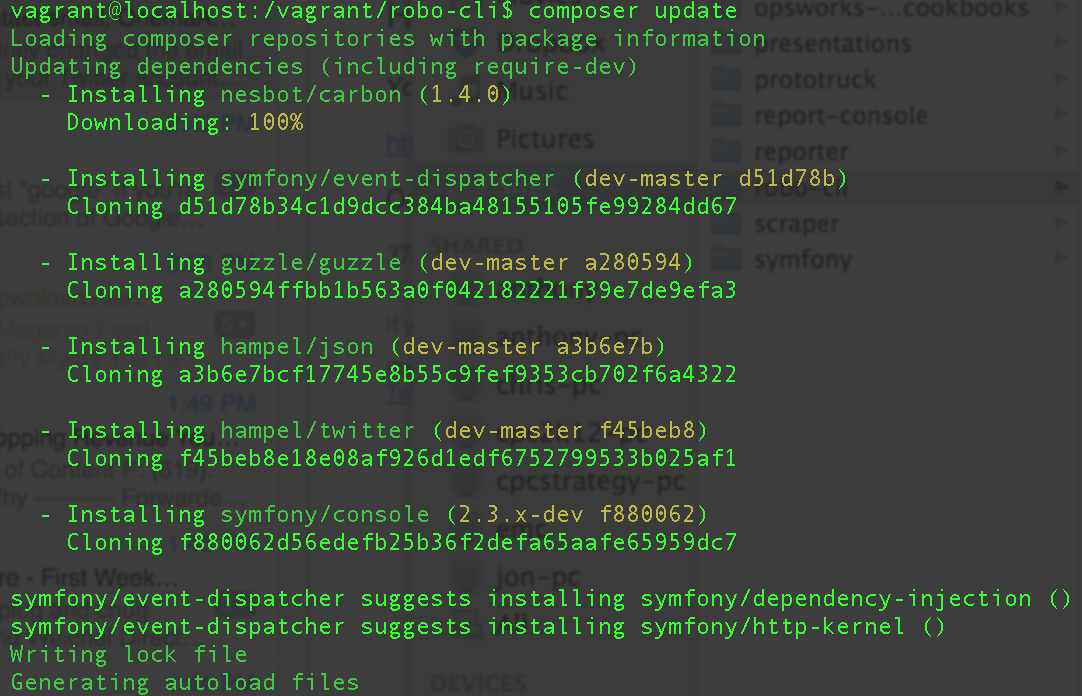
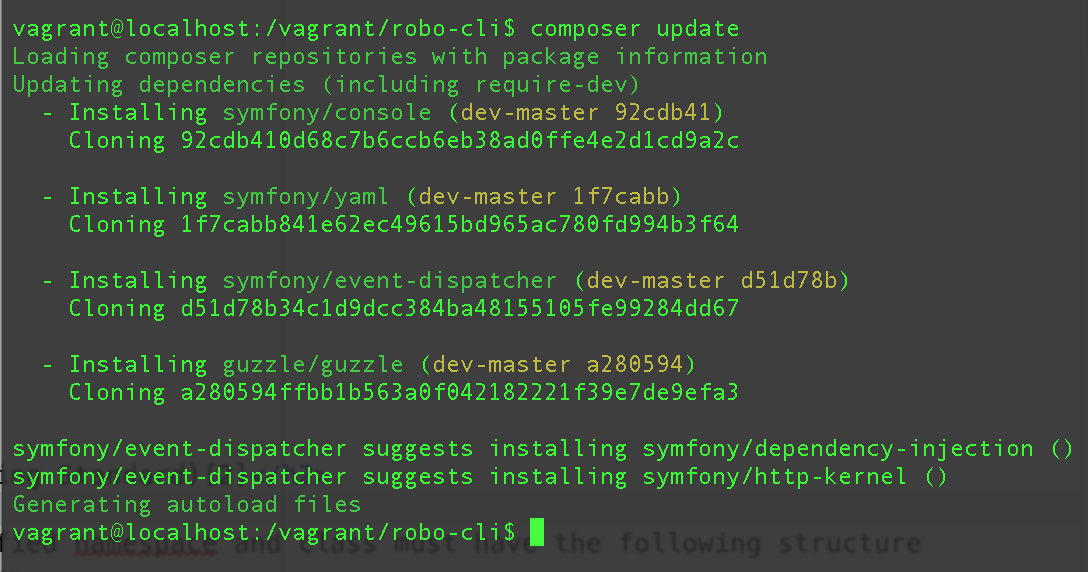
Updated presentation to match code in repository

diff --git a/composer/index.html b/composer/index.html
@@ -81,8 +81,8 @@
 </code></pre>
                 </section>
                 <section>
-                    <h2>Composer Update</h2>
-                    <img src="img/composer-update.png" />
+                    <h2>Composer Install</h2>
+                    <img src="img/composer-install.png" />
                 </section>
                 <section>
                     <section>
@@ -122,14 +122,14 @@ src
 src
   |__Onema                          #Onema
      |__RoboCli                     #Onema\RoboCli
-            |__Command              #Onema\RoboCli
-               |__TwitCommand.php   #Onema\RoboCli\TwitCommand
+            |__Command              #Onema\RoboCli\Command
+               |__TweetCommand.php   #Onema\RoboCli\TweetCommand
 </code></pre>
                     </section>
                 </section>
                 <section>
                     <section>
-                        <h2>Create a new Class TwitCommand</h2>
+                        <h2>Create a new Class TweetCommand</h2>
 <pre><code data-trim contenteditable>
 
 namespace Onema\RoboCli\Command;
@@ -143,7 +143,7 @@ use Guzzle\Http\Exception\ClientErrorResponseException;
 use Guzzle\Plugin\Oauth\OauthPlugin;
 use Guzzle\Http\Client;
 
-class TwitCommand extends Command
+class TweetCommand extends Command
 {
     
 }
@@ -156,13 +156,13 @@ class TwitCommand extends Command
     protected function configure()
     {
         $this
-            ->setName('robocli:twitt')
-            ->setDescription('Twitt.')
+            ->setName('robocli:tweet')
+            ->setDescription('Send a status update to twitter.')
             ->addOption(
                'message',
                null,
                InputOption::VALUE_REQUIRED,
-               'Message to Twitt'
+               'Message for status update.'
             )
         ;
     }
@@ -207,7 +207,7 @@ class TwitCommand extends Command
                 </section>
                 <section>
                     <h1>THE END</h1>
-                    <h3>BY Juan Manuel Torres / onema.io / @onema</h3>
+                    <small>BY Juan Manuel Torres / onema.io / @onema</small>
                 </section>
                 <section>
                     <h2>References</h2>
